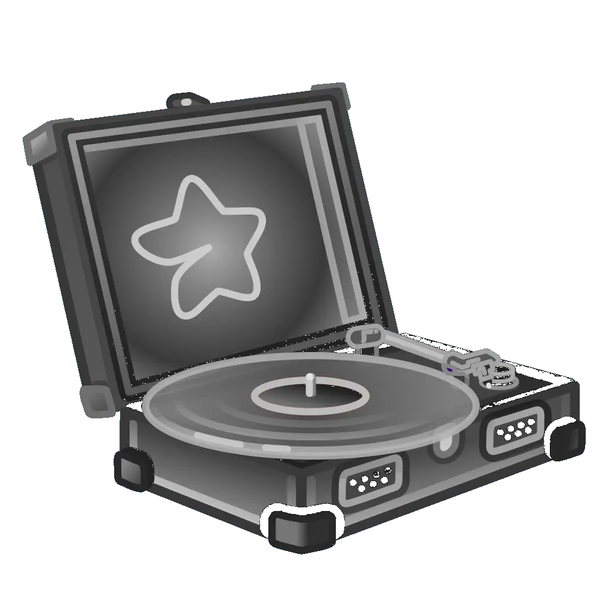
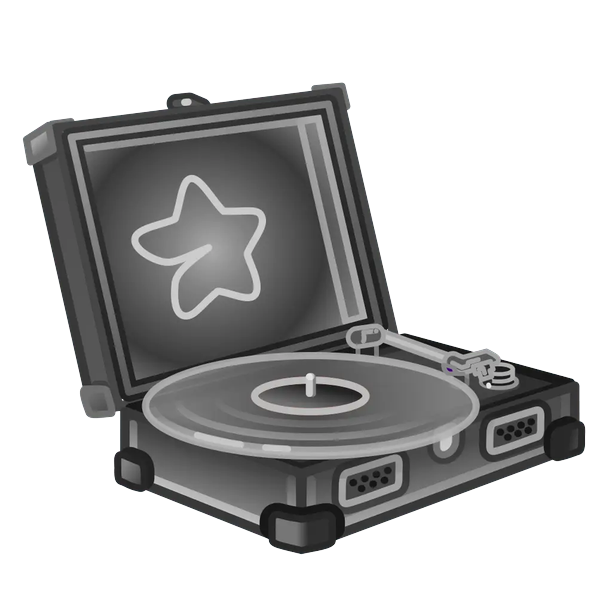
Use transparent music shop art with larger offset placement.
Replace the white-background PNG with alpha and bump scale/position in the product card.

diff --git a/src/data/products.ts b/src/data/products.ts
@@ -87,7 +87,7 @@ export const products: ShopProduct[] = [
     currency: 'coins',
     category: 'donate',
     image: musicImage,
-    imageClassName: 'object-contain scale-[0.9]',
+    imageClassName: 'object-contain scale-[1.15] translate-y-[5px]',
     description: 'Заказ трека на стрим.',
     detailText: 'Напиши @username — администратор уточнит трек и поставит его на стрим.',
     infoText: ADMIN_ORDERS_INFO,
